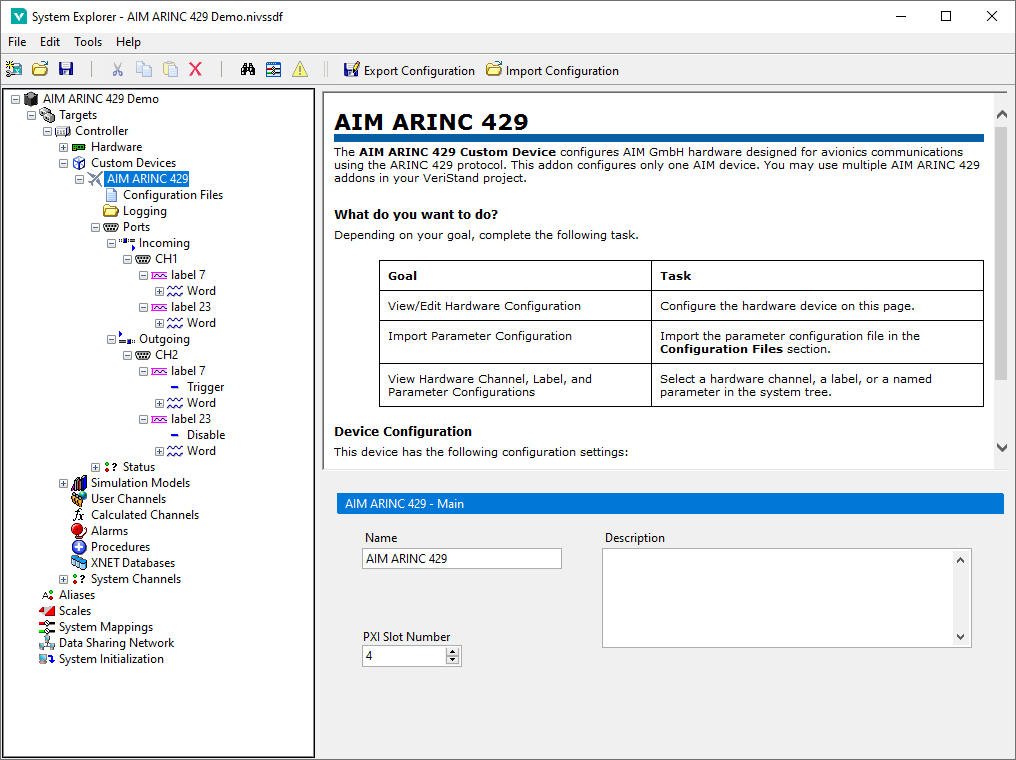
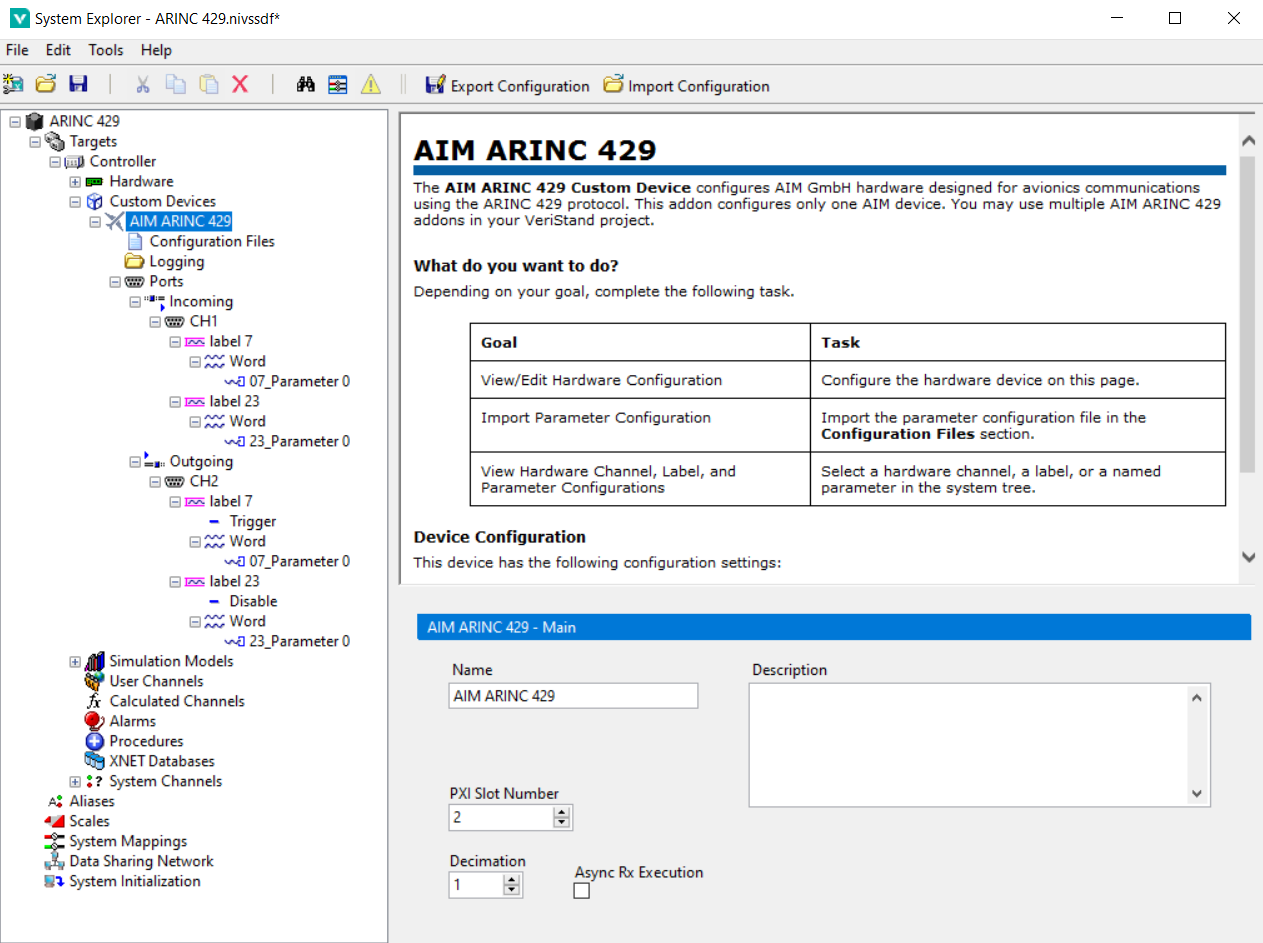
Add Theory of Operations initial draft and update User Guide to reference it

diff --git a/Docs/Theory of Operations/Theory of Operations.md b/Docs/Theory of Operations/Theory of Operations.md
@@ -1,0 +1,75 @@
+# Theory of Operations
+
+This guide details the low-level custom device implementation details of the AIM ARINC 429 custom device.
+
+## Communications Bus Template
+
+This custom device is based on the [VeriStand Communications Bus Template](https://github.com/ni/niveristand-communications-bus-template). That project's User Guide contains its own [Theory of Operation section](https://github.com/ni/niveristand-communications-bus-template/blob/main/Docs/User%20Guide.md#theory-of-operation), which details the main components of custom devices implemented based on this pattern. This guide explains the design decisions and performance implications for this custom device.
+
+The most important concept in the Communications Bus Template's design pattern is the ability to execute individual engine components as either inline or asynchronous processes from the same inline custom device. This is detailed in the [Engine section](https://github.com/ni/niveristand-communications-bus-template/blob/main/Docs/User%20Guide.md#engine) of that User Guide.
+
+## Execution Units
+
+This custom device consists of several Execution Units and Factories, and this section details the execution mode and resposibilities of each.
+
+![EngineLibrary](Screenshots/EngineLibrary.PNG)
+
+| Execution Unit | Mode | Responsibility |
+| --- | --- | --- |
+| Rx Execution Unit | **Inline**, Group 1 Async | Read all incoming 429 label buffers defined in the configuration file |
+| Tx Scheduled Execution Unit | Group 1 Async | Write all outgoing, scheduled 429 label buffers defined in the configuration file |
+| Tx Acyclic Execution Unit | Group 1 Async | Write all outgoing, acyclic 429 label buffers defined in the configuration file and trigger their transmission |
+| Logging Execution Unit | Group 2 Async | If enabled, read all labels on the channels configured in the configuration file |
+
+**Note**: The bolded execution mode is default if the execution mode is configurable.
+
+### Execution Unit Factory
+
+This Factory is included in the Engine library but executes on the host PC during deployment of the custom device. Each Execution Unit's data is retreived from the System Definition, channels references are configured, and the execution mode of each is determined. The output of `Create Execution Unit.vi` is deployed to the target and unflattened in the RT Engine.
+
+## Execution Modes
+
+As shown above, the default configuration of the custom device executes all Execution Units except for Rx as asynchronous. Rx is inlined by default, which means the Rx Execution Unit's `Read from Hardware.vi` is called inline with VeriStand's Primary Control Loop (PCL).
+
+The Rx Execution Unit's execution duration increases linearly with the number of ARINC 429 labels configured in the Parameters configuration file. If left to execute inline with the PCL, reading a large amount of labels will limit the maximum HP loop rate of the entire VeriStand deployment.
+
+This section shows different execution modes that are user configurable to maximize the system performance while maintaining deterministic reading and writing of ARINC 429 labels. Note that all plots are oversimplified to demonstrate the affect of the execution modes. The execution time for each Execution Unit and the PCL will vary greatly depending on the system complexity, processor capability, and the number of labels exposed in the configuration file.
+
+### Default Configuration: Rx Executes Inline
+
+The plot below shows an ideal execution model where:
+- the Rx Execution Unit is executed inline with the PCL and finishes in time
+- the Tx Execution Units are executed async
+- Logging is enabled and executed async
+
+As long as the rest of the VeriStand system meets timing constraints (the PCL does not run late), this is an acceptable execution mode. However, depending on the number of labels configured and the desired PCL loop rate, the Rx Execution Unit can cause the PCL to run late.
+
+![DefaultNormal](Screenshots/DefaultNormal.PNG)
+
+When the PCL runs late, VeriStand will report that the actual loop rate is lower than the configured loop rate, and late high priority (HP) loop counts will be recorded. The plot below shows the scenario where the Rx Execution Unit taking a long time to execute causes the next iteration of the PCL to not start at the desired time.
+
+![DefaultLate](Screenshots/DefaultLate.PNG)
+
+### Rx Configured as Asynchronous
+
+In order to maximize the performance of the rest of the system, the Execution Unit and Factory design pattern allows simple modification of the execution mode of each execution unit. This custom device has a configuration option to run the Rx Execution Unit as Asynchronous. When selected, the Rx Execution unit executes in Async Group 1 after the Tx Execution Units have completed.
+
+This configuration is advantageous when trying to free up high-priority CPU time to maintain PCL stability. The plot below shows the change in execution mode.
+
+![AsyncNormal](Screenshots/AsyncNormal.PNG)
+
+This is also advantageous when the Rx Execution Unit takes longer than the desired PCL period to execution. If the custom device's Execution Unit does not complete before the next PCL iteration, the rate will effectively be decimated, and the next custom device iteration will be skippped.
+
+![AsyncLate](Screenshots/AsyncLate.PNG)
+
+### Decimated Execution
+
+To maintain deterministic execution rates of the custom device with large label counts, it is recommended to both make the Rx execution asynchronous and decimate the custom device execution. Decimation allows the user to specify the number of PCL iterations between iterations of the custom device.
+
+The plot below shows a similar situation to the late-execution asynchrous Rx execution from above. It will not cause the PCL to run late, but due to variability in execution times, the custom device loop rate may vary over time. However, if the custom device is decimated to run every two PCL iterations, the loop rate of the custom device can be made more deterministic.
+
+![Decimated](Screenshots/Decimated.PNG)
+
+## Using Timing Channels to Analyze Performance
+
+Users can monitor the optional Timing Channels to analyze the impact of the custom device on system performance. Right-click on the custom device in System Explorer to add these **Timing Channels**.

diff --git a/Docs/User Guide/User Guide.md b/Docs/User Guide/User Guide.md
@@ -19,7 +19,7 @@ This example uses a simple example Parameters file found at `Assets/Parameters.x
 
 The files are configured with two ARINC 429 channels each containing the same two labels. The following XML snippet shows the Parameters file configuration of the transmit channel: Label 07 is an acyclic label with one BNR parameter, and Label 23 is a cyclic label with one BNR parameter. The receive channel contains two labels configured identically.
 
-```
+```xml
 	<channel>
 		<hardwareChannel>2</hardwareChannel>
 		<direction>outgoing</direction>
@@ -58,7 +58,8 @@ The files are configured with two ARINC 429 channels each containing the same tw
 	</channel>
 ```
 
-Running this example requires wiring Channel 1 to Channel 2 using an appropriate cable.
+
+**Note**: Running this example requires wiring Channel 1 to Channel 2 using an appropriate cable.
 
 #### Configure the Custom Device in System Explorer
 
@@ -133,3 +134,7 @@ To limit the impact on real-time performance, the logged data read from the bus 
 Similarly, the second message was carrying a data value of **0b110111** or **0d55**.
 
 ![Logged Frame 2](Screenshots/Logged_Frame_2.png)
+
+## Analyzing Performance
+
+This custom device can optionally report the execution time of each execution unit per iteration. To further understand the maximum loop rate achievable by the custom device for a given configuration, see the [Theory of Operations](../Theory%20of%20Operations/Theory%20of%20Operations.md#Using-Timing-Channels-to-Analyze-Performance) for an explanation of the execution mode and timing implications of each Execution Unit.
